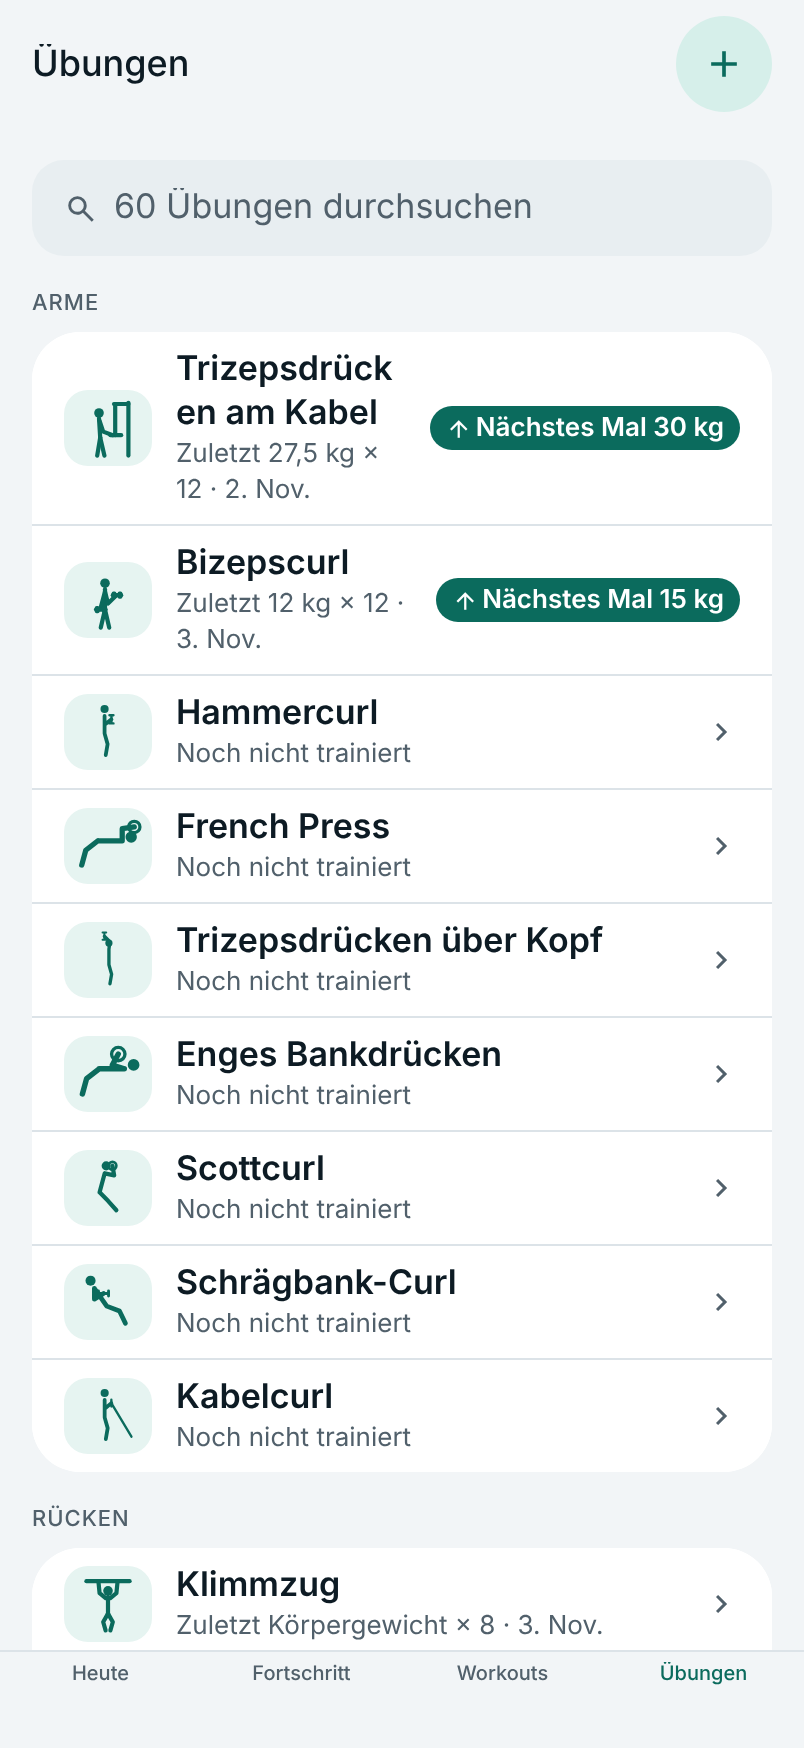
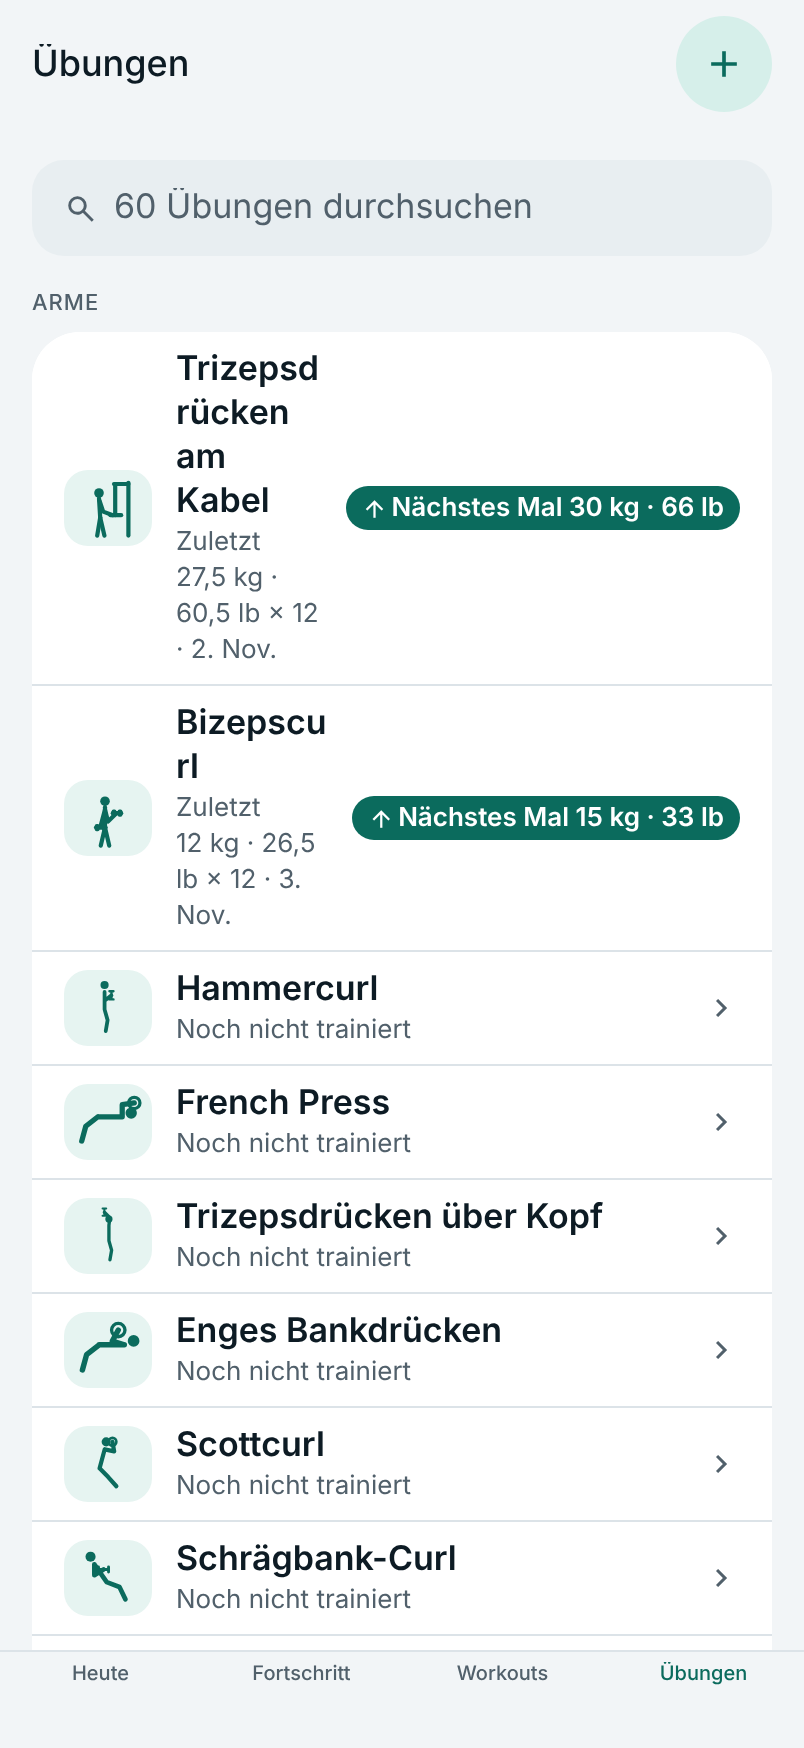
feat: Show both units on by default; decisions #25 and #26
Sebastian: "both units on by default". Settings test changed first (red), then the
default (green). Five e2e texts now expect both units, since every weight shows
"65 kg · 143.5 lb" by default. Decisions #25 (the 8 requests, lifts "kg only" in #9)
and #26 written at his request.

Checks: npm run check (441 tests), npm run test:e2e (67 passed).

Claude-Session: https://claude.ai/code/session_011iuYTic8TV2WCdQJ9TL3qG

diff --git a/e2e/screens.spec.ts b/e2e/screens.spec.ts
@@ -226,8 +226,8 @@ test.describe('Workout editor', () => {
 test.describe('Exercises', () => {
   test('grouped library, last time, next-weight chip, search', async ({ page }) => {
     await page.goto(`/exercises?${LENA}`);
-    await expect(page.getByTestId('exercise-e1')).toContainText(en('exercises.last', { kg: '65 kg', reps: 6, date: '2 Nov' }));
-    await expect(page.getByTestId('next-e1')).toContainText(en('exercises.next', { kg: '67.5 kg' }));
+    await expect(page.getByTestId('exercise-e1')).toContainText(en('exercises.last', { kg: '65 kg · 143.5 lb', reps: 6, date: '2 Nov' }));
+    await expect(page.getByTestId('next-e1')).toContainText(en('exercises.next', { kg: '67.5 kg · 149 lb' }));
     await expect(page.getByTestId('exercise-e9')).toContainText(en('exercises.notLogged'));
     await shot(page, 'exercises');
     await page.getByTestId('exercise-search').fill('curl');
@@ -254,9 +254,9 @@ test.describe('Workout (spec 001 update 2)', () => {
   test('Start workout on Push: 4 tiles with last time and hints', async ({ page }) => {
     await openPush(page);
     await expect(page.locator('[data-testid^="tile-"][data-testid$="-hint"]')).toHaveCount(4);
-    await expect(page.getByTestId('tile-0')).toContainText(en('session.last', { sets: 4, reps: 6, kg: '65 kg' }));
-    await expect(page.getByTestId('tile-0-hint')).toContainText(en('hint.try', { kg: '67.5 kg' }));
-    await expect(page.getByTestId('tile-1-hint')).toHaveText(en('hint.stay', { kg: '24 kg' }));
+    await expect(page.getByTestId('tile-0')).toContainText(en('session.last', { sets: 4, reps: 6, kg: '65 kg · 143.5 lb' }));
+    await expect(page.getByTestId('tile-0-hint')).toContainText(en('hint.try', { kg: '67.5 kg · 149 lb' }));
+    await expect(page.getByTestId('tile-1-hint')).toHaveText(en('hint.stay', { kg: '24 kg · 53 lb' }));
     await expect(page.getByTestId('session-done-count')).toHaveText(en('session.doneCount', { n: 0, total: 4 }));
     await shot(page, 'workout');
   });
@@ -299,7 +299,7 @@ test.describe('Workout (spec 001 update 2)', () => {
     await tapUntil(page, 'finish-workout', () => expect(page.getByTestId('summary')).toBeVisible({ timeout: 2000 }));
     await expect(page.getByTestId('summary-records')).toContainText('1');
     await expect(page.getByTestId('summary-volume')).toContainText(en('summary.volume'));
-    await expect(page.getByTestId('record-e1')).toContainText(en('summary.recordBody', { kg: '67.5 kg', reps: 6, over: '2.5 kg' }));
+    await expect(page.getByTestId('record-e1')).toContainText(en('summary.recordBody', { kg: '67.5 kg · 149 lb', reps: 6, over: '2.5 kg · 5.5 lb' }));
     await expect(page.getByTestId('summary-next-day')).toHaveText(en('summary.nextLoop', { plan: 'Pull', when: en('summary.tomorrow') }));
     await shot(page, 'summary');
     await page.getByTestId('summary-done').click();
@@ -341,7 +341,7 @@ test.describe('Exercise screen (spec 001)', () => {
     await page.goto(`/session?start=w1&state=comeback&${DAY}`);
     await tapUntil(page, 'tile-0', () => expect(page.getByTestId('session-exercise')).toBeVisible({ timeout: 2000 }));
     await expect(page.getByTestId('hint-comeback')).toContainText(en('hint.comebackTitle'));
-    await expect(page.getByTestId('hint-use')).toHaveText(en('hint.use', { kg: '57.5 kg' }));
+    await expect(page.getByTestId('hint-use')).toHaveText(en('hint.use', { kg: '57.5 kg · 127 lb' }));
     await shot(page, 'exercise-comeback');
   });
 
@@ -360,7 +360,7 @@ test.describe('Exercise screen (spec 001)', () => {
     await page.getByTestId('past-2026-11-02-set-0-kg').fill('67,5');
     await page.getByTestId('past-2026-11-02-done').click();
     await expect(page.getByTestId('past-2026-11-02')).toContainText('4 × 6 · 67.5 kg');
-    await expect(page.getByTestId('chart')).toHaveAttribute('aria-label', /to 67.5\skg on 2 Nov/);
+    await expect(page.getByTestId('chart')).toHaveAttribute('aria-label', /to 67.5\skg · 149\slb on 2 Nov/);
 
     await page.getByTestId('past-2026-11-02-more').click();
     await page.getByRole('menuitem', { name: en('exercise.deleteSession') }).click();
@@ -580,7 +580,7 @@ test.describe('Settings', () => {
     await page.goto(`/settings?${LENA}`);
     await expect(page.getByTestId('setting-reps-value')).toHaveText(en('settings.repsValue', { n: 8 }));
     await page.getByText(en('settings.unitLb'), { exact: true }).click();
-    await page.getByTestId('setting-both').click();
+    // Show both units is on by default, so it is not touched here.
     await page.getByTestId('setting-reps-minus').click();
     await expect(page.getByTestId('setting-reps-value')).toHaveText(en('settings.repsValue', { n: 7 }));
     await shot(page, 'settings-weights');

diff --git a/src/data/settings.test.ts b/src/data/settings.test.ts
@@ -2,7 +2,7 @@ import { DEFAULT_SETTINGS, parseSettings, schemeFor, serializeSettings, withRest
 
 test('nothing saved gives the defaults: rest timer on, 90 s, system look, haptics on, no alert', () => {
   expect(parseSettings(null)).toEqual(DEFAULT_SETTINGS);
-  expect(DEFAULT_SETTINGS).toEqual({ restTimer: true, restSeconds: 90, theme: 'system', haptics: true, restAlert: false, unit: 'kg', showBoth: false, defaultReps: 8 });
+  expect(DEFAULT_SETTINGS).toEqual({ restTimer: true, restSeconds: 90, theme: 'system', haptics: true, restAlert: false, unit: 'kg', showBoth: true, defaultReps: 8 });
 });
 
 test('saved settings come back as they were', () => {
@@ -39,10 +39,10 @@ test('the look: system follows the phone, light and dark override it', () => {
 });
 
 test('weight unit and default reps: kg, one unit shown, 8 reps; a bad value falls back alone', () => {
-  expect(DEFAULT_SETTINGS).toMatchObject({ unit: 'kg', showBoth: false, defaultReps: 8 });
+  expect(DEFAULT_SETTINGS).toMatchObject({ unit: 'kg', showBoth: true, defaultReps: 8 });
   const at = (data: object) => parseSettings(JSON.stringify({ v: 1, data }));
   expect(at({ unit: 'lb', showBoth: true, defaultReps: 12 })).toMatchObject({ unit: 'lb', showBoth: true, defaultReps: 12 });
-  expect(at({ unit: 'stone', showBoth: 1, defaultReps: 'x' })).toMatchObject({ unit: 'kg', showBoth: false, defaultReps: 8 });
+  expect(at({ unit: 'stone', showBoth: 1, defaultReps: 'x' })).toMatchObject({ unit: 'kg', showBoth: true, defaultReps: 8 });
   expect(at({ defaultReps: 500 }).defaultReps).toBe(99);
   expect(at({ defaultReps: 0 }).defaultReps).toBe(1);
 });

diff --git a/src/data/settings.ts b/src/data/settings.ts
@@ -26,7 +26,7 @@ export type Settings = {
   defaultReps: number;
 };
 
-export const DEFAULT_SETTINGS: Settings = { restTimer: true, restSeconds: 90, theme: 'system', haptics: true, restAlert: false, unit: 'kg', showBoth: false, defaultReps: 8 };
+export const DEFAULT_SETTINGS: Settings = { restTimer: true, restSeconds: 90, theme: 'system', haptics: true, restAlert: false, unit: 'kg', showBoth: true, defaultReps: 8 };
 
 export const MIN_REST = 15;
 export const MAX_REST = 600;

diff --git a/docs/now.md b/docs/now.md
@@ -1,6 +1,6 @@
 # Now
 
-Max about 60 lines. Rewrite, never append (re-read this file right before rewriting it). Updated: 2026-11-03 (your 8 requests built: web and tests only)
+Max about 60 lines. Rewrite, never append (re-read this file right before rewriting it). Updated: 2026-11-04 (8 requests built, both units on by default, decisions #25 #26; web and tests only)
 
 Mode: Business   Phase: 1 strategy | 2 designs | 3 code (now: 3 code)
 Status: active
@@ -19,10 +19,8 @@ Slice: slice 1 · card: docs/brief.md section 3
 On the iPhone in Expo Go: Today (scroll down: loop card, Edit loop), Settings > Weights (lb, Show both, Standard reps), a workout in lb, Workouts > Push > tap 4 × 6 > Remove from workout, Exercises > + (pick a picture), Progress (one row per year); then the older feel checks below.
 
 ## Open questions (Claude adds here, never invents answers)
-- Built 2026-11-03 from your 8 requests (Suggestions where I chose, say if one is wrong). Calendar tab removed; its loop card with Edit loop sits at the bottom of Today. Progress keeps only the year rows, one per year with a workout, newest first. A past loop workout day with no logged workout becomes Rest and the loop waits (like Push the loop back); Today lists the last 7 such days with Put back; days set by hand and older saves' past are left alone. Lift pictures: pick any starter lift's drawing or the dumbbell; starter lifts keep their own. Weights saved in kg, shown in your unit; "Show both units" adds the other one, with its own field when you log a set; hints round to 5 lb in pounds. Standard reps: 8, used when you add a lift to a workout (was 3 × 10, sets stay 3). Remove a lift: tap its target, "Remove from workout" (swipe still works).
+- Built 2026-11-03 from your 8 requests (Suggestions where I chose, say if one is wrong). Calendar tab removed; its loop card with Edit loop sits at the bottom of Today. Progress keeps only the year rows, one per year with a workout, newest first. A past loop workout day with no logged workout becomes Rest and the loop waits (like Push the loop back); Today lists the last 7 such days with Put back; days set by hand and older saves' past are left alone. Lift pictures: pick any starter lift's drawing or the dumbbell; starter lifts keep their own. Weights saved in kg, shown in your unit; "Show both units" (on by default, #26) adds the other one, with its own field when you log a set; hints round to 5 lb in pounds. Standard reps: 8, used when you add a lift to a workout (was 3 × 10, sets stay 3). Remove a lift: tap its target, "Remove from workout" (swipe still works).
 - Analysis page not visible: on your real (empty) app the Strength balance card was hidden until the first finished workout. Now it always shows, with a note. If you meant something else, tell me where you looked.
-- Please write decision rows in your own words for these 8 (decisions.md takes only your wording). Note: lb replaces "kg only" in #9.
-- "Show both units" is off by default (you only switch your main unit). Turn it on by default? Paste: "both units on by default" or "keep it off".
 - Progress tab, reviewed 2026-11-02 at Sebastian's request (Suggestions, say if one is wrong). Kept: 5th tab; trained day = a finished workout with at least one ticked set; missed day = a past loop workout day without one; streak in weeks; strength = estimated 1-rep max per lift, summed per group, shown as growth; Week / Month / Year against the best before that period. Changed: reps above 12 no longer raise the estimate; a group with only bodyweight lifts counts best reps (never asks for body weight, which would be new personal data); next to weighted lifts they stay left out.
 - Needs your yes (data-model change): record workout start and end, so Progress can show training time? Paste: "yes, record training time" or "no training time".
 - "Now" is the best so far, so strength never shows a drop after a break. Keep, or compare recent weeks only?

diff --git a/docs/decisions.md b/docs/decisions.md
@@ -31,3 +31,5 @@ Who decided: `Sebastian` | `Claude suggestion, accepted by Sebastian` (then name
 | 22 | 2026-11-01 | Personal settings: "defaultMode": "auto" with narrow allows; "keep the whole deny list; remove disableBypassPermissionsMode; keep the ask on git push for now (I remove it myself once main is protected on GitHub)". "Both files": the project's ask on all npx becomes an ask on `npx expo install` only. | Retro 1. An ask beats an allow, so the npx allows need the narrower ask. | Claude suggestion, accepted by Sebastian (turned down: personal file only) | decided | |
 | 23 | 2026-11-02 | "Remove the 10-screen limit" (it was only there for FigCraft). | Lifts the cap in CLAUDE.md, /designs, /kickoff and screens.md; #13 stays. | Sebastian | decided | |
 | 24 | 2026-11-02 | "Make the rest timer optional (in settings)", "add a dark mode toggle", "install expo-haptics and expo-notifications". | Settings screen from the gear on Today. expo-haptics ~58.0.7, expo-notifications 58.1.6 (exact pin: 58.1.7 was under 7 days old). | Sebastian | decided | |
+| 25 | 2026-11-03 | The 8 requests: "remove exercises after adding them to a workout"; calendar: "keep only the bottom row, one row per year, only years with activity"; "choose a picture from the existing ones when adding an exercise"; "detect gym skips automatically, mark them as rest days and move the loop; let me edit and override"; "move Edit loop from the calendar page to the first page"; "primary unit lb or kg, show both, type in both with automatic conversion"; "standard reps in settings, default 8"; "the analysis page is not visible". Built in PR #3. | Wording as noted from Sebastian's list on 2026-11-02 (not verbatim); he asked Claude to write the row ("You create"). lb support lifts "kg only" in #9. | Sebastian | decided | #9 (kg only) |
+| 26 | 2026-11-04 | "both units on by default" | Answer to the open question; Show both units starts on. | Sebastian | decided | |

diff --git a/docs/log.md b/docs/log.md
@@ -63,3 +63,4 @@ Format:
 
 - 2026-11-03 (cloud, added afterwards by Claude: the session before had no entry): Sebastian listed 8 requests (remove a lift, calendar as year rows, lift pictures, auto rest days, Edit loop on Today, kg / lb, standard reps, analysis page not visible); logic and tests written (units, skips, settings, year rows), screens not yet.
 - 2026-11-03 (cloud): built the 8 screens on that logic: Calendar tab gone, Edit loop on Today, skipped days with Put back, year rows on Progress, Strength balance always visible, kg / lb with both, standard reps 8, Remove from workout, lift pictures; npm run check and test:e2e (67) green; web only; next the iPhone list in now.md.
+- 2026-11-04 (cloud): Show both units on by default (settings test red/green, 5 e2e texts now show both units), decisions #25 and #26 written; npm run check and test:e2e (67) green; next the iPhone list in now.md.
